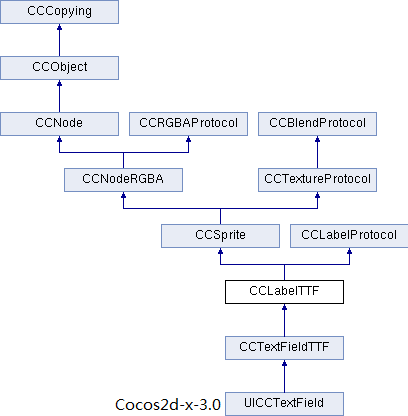
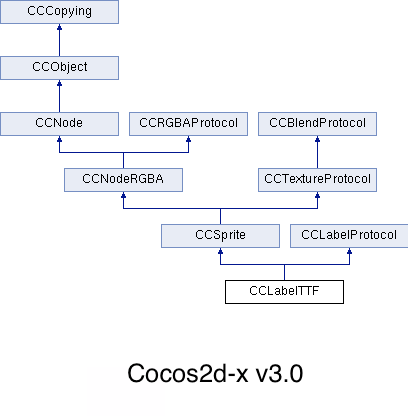
fixed #3298, modify spell, coding style, wrong grammar. update wrong screenshot.

diff --git a/manual/framework/native/gui/label/v3/en.md b/manual/framework/native/gui/label/v3/en.md
@@ -1,37 +1,33 @@
-#Improve Label in Cocos2d-x-3.0
+#Improved Label in Cocos2d-x-3.0
 
-Before the Cocos2d-x-3.0, there are three classes that can add text label on layers and sprites,which are CCLabelTTF, CCLabelBMFont and CCLabelAtlas.
+Before Cocos2d-x 3.0 released, the text label can be added to layer by three classes-CCLabelTTF, CCLabelBMFont and CCLabelAtlas.
 
-Cocos2d-x 3.0 makes some improvements, it keeps compatible with previous version, keep LabelTTF, LabelBMFont and LabelAtlas with minor changes and also provides another class named Label to handling text rendering.
+Though Cocos2d-x 3.0 have improved, it keeps compatible with previous version.
 
-So there are four classes that can add text label: Label, LabelTTF, LabelBMFont and LabelAtlas. The new Label in v3.0 works with freetype and gives you the same visual effect
-on different platforms. It's quicker than previous version with cache strategy.
+With cache strategy's help you can speed up your game.
 
-And also it offers tracing, shadow and many more features to be ready to put aside your LabelTTF and LabelBMFont.
+## Changes:
 
+1. Removed CC prefix of classes, structures and macros. Removed Hungarian naming convention, such as m, p, etc.
+2. Changed certain data type of parameters and return value type in member functions. For example, char was replaced by string, unsigned int was replaced by long, etc.
+3. Changed the name and attribute values of some enum types.
+4. Added const modifier to member function, such as `float getFontSize() const;`, improving the robustness of the program.
 
-Changes:
-
-1. Remove the CC prefix of class, struct and macro. Remove Hungarian naming convention, such as m, p, etc.
-2. Change certain data type of parameters and return type in the member functions. For example, char was replaced by string, unsigned int was replaced by long, etc.
-3. Change the name and attribute values of some enum types;
-4. Add const modifier to member function, such as `float getFontSize() const;`, improving the robustness of the program.
-
-## Similar changes
+## Similar changes of old CCLabel
 
 ### 1.Comparison of the inheritance relationship
-1.In v3.0 version ,all classes have removed the CC prefix and also remove the CCCopying class. Such as:
+In v3.0 version, all classes have removed CC prefix and also remove the CCCopying class. Such as:
 
-CCLabelTTF and LabelTTF 
+#### CCLabelTTF and LabelTTF 
 
 ![](./res/classcocos2d_1_1_c_c_label_t_t_f.png)
 
 ![](./res/classcocos2d_1_1_label_t_t_f.png)
 
 
-### 2.The definition of Horizontal alignment and vertical alignment are changed
+### 2. The definition of Horizontal alignment and vertical alignment are changed
 
-In V2.x version
+#### In V2.x version
 
 ```
 	static CCLabelTTF * create(const char *string, const char *fontName, float fontSize,
@@ -39,7 +35,7 @@ In V2.x version
 	　　                               CCVerticalTextAlignment vAlignment);
 ```
 
-In V3.0 version
+#### In V3.0 version
 ```
 	static LabelTTF * create(const std::string& string, const std::string& fontName, float fontSize,
 	　　                             const Size& dimensions, TextHAlignment hAlignment,
@@ -47,11 +43,13 @@ In V3.0 version
 ```
 
 
-As the example above, you can see a number of changes in the function of the upgrade version. Firstly, there isn't CC prefix any more;
+As the example above, you can see the changes in the function of the upgrade version. 
 
-Secondly, char array has been replaced by a string type(The string is relatively  more advanced and more convenient to use. The char array operation is much more error prone,
-but the efficiency is higher); In addition, the type of last two parameters(horizontal and vertical alignment of the text) are also changed,
-but they have the similar efficiency as the previous version, only the name has changed as follows:
+Firstly, there isn't CC prefix any more.
+
+Secondly, char array has been replaced by a string type(The string is relatively more advanced and more convenient to use. The char array operation is likely make mistakes, but more efficient).
+
+In addition, the type of the last two parameters(horizontal and vertical alignment of the text) are also changed. However, they have the similar efficiency as the previous version, only name has changed as follows:
 
 
 | |*cocos2d-x-2.x*|*cocos2d-x-3.0*|
@@ -62,15 +60,15 @@ but they have the similar efficiency as the previous version, only the name has 
 
 
 
-## Different changes
+## Different changes of old CCLabel
  
-LabelBMFont removed the function:
+LabelBMFont has removed following function:
 
 ``` 
 	CCBMFontConfiguration* getConfiguration() const;
 ```
 
-So you can't call this function to get _configuration(FNT file configuration properties) in v3.0 version any more.
+This function can’t be called to get _configuration(FNT file configuration properties) in v3.0 version any more.
 
 
 
@@ -78,13 +76,13 @@ So you can't call this function to get _configuration(FNT file configuration pro
 ### New Label class
 
 
-Let's look at the hierarchy chart of the Label class :
+Let's look at the hierarchy chart of the Label class:
 
 
 ![](./res/classcocos2d_1_1_label.png)
 
 
-In the above chart, LabelTextFormatProtocol is also a new class, it is  similar as LabelProtocol,  they are all pure virtual classes which provide a interface to store strings.
+In the chart above, LabelTextFormatProtocol is also a new class. It is similar as LabelProtocol,  they are all pure virtual base classes which provide a interface to store strings.
 
 Here is the inheritance graph:
 
@@ -101,13 +99,11 @@ Static Public Member Functions of Label class:
 ```
 
  
-* CreateWithTTF () function can create Label directly from TTF file(TTF is a file extension for a font file developed by Apple. TTF stands for True Type Font.
-TTF files are currently used by both Apple and Microsoft as a raster font format).
+CreateWithTTF() function can create Label directly from TTF file.
 
-The way of creating Label with this function is similar to the way of creating LabelTTF(previous CCLabelTTF). The difference is LabelTTF class create font label from font name,
-but Label class create font label directly through a ttf file.
+The way of creating Label with this function is similar to the way of creating LabelTTF. The difference is LabelTTF class create font label by font name, but Label class create font label directly through a ttf file.
 
-Look at a piece of code as follows, creating a label with LabelTTF and Label: 
+Look at a piece of code as follow, creating a label with LabelTTF and Label: 
 ```
 	auto label1 = LabelTTF::create("Creating label through LabelTTF class by file name", "myFontName", 24);
 	label1->setPosition(Point(origin.x, origin.y + visibleSize.height - label1->getContentSize().height));
@@ -120,7 +116,7 @@ Look at a piece of code as follows, creating a label with LabelTTF and Label:
 	label2->setAnchorPoint(Point(0.0f, 0.0f));
 	this->addChild(label2);
 ```
-Run the program and you will get the following screenshot:
+Run the program and you will get the following result:
 
 ![](./res/ttf.png)
 
@@ -132,7 +128,7 @@ Here is a method to set the alignment of a label:
 	label2->setAlignment(TextHAlignment::LEFT)；	//Set the text level alignment is aligned to the left
 ```
 
-* CreateWithBMFont() can create Label with FNT file,it is similar to LabelBMFont. Look at a piece of code as follows, creating a label through LabelBMFont and Label: 
+CreateWithBMFont() can create Label with FNT file, it is similar to LabelBMFont. Look at a piece of code as follow, creating a label through LabelBMFont and Label: 
 
 ```
 	auto label3 = LabelBMFont::create("Create label through LabelBMFont class by .fnt file", "fonts/helvetica-32.fnt");
@@ -146,16 +142,17 @@ Here is a method to set the alignment of a label:
 	addChild(label4 );
 ```
 
-Run the program and you give get the following screenshot:
+Run the program and you give get the following result:
 
 ![](./res/bmfont1.png)
 
 To use the LabelBMFont class, you need to add the font files into your project, including a PNG file and a FNT file. The Label class has the same requirement.
-FNT file contains the name of the corresponding image (Image contains all  characters that you want to draw), the corresponding unicode  of characters,
-the coordinates, width and height of characters in the image.
 
-You can change some attributes of your label4 by simply calling the member function like the following:
+FNT file contains the name of the corresponding image, the corresponding unicode  of characters, the coordinates, width and height of characters in the image.
 
+You can change some attributes of your label4 by calling the member function just like following codes:
+
+```
 	auto size = label4->getLabelContentSize();
 	CCLOG("Label content size: %.2fx%.2f", size.width, size.height);
 	auto lineWidth = label4->getMaxLineWidth();
@@ -169,7 +166,7 @@ You can change some attributes of your label4 by simply calling the member funct
 	auto jump = JumpBy::create(0.5f, Point::ZERO, 60, 1);
 	auto jump_4ever = RepeatForever::create(jump);
 	CChar->runAction(jump_4ever);
-
+```
 
 Run the program to see the difference:
 
@@ -177,5 +174,6 @@ Run the program to see the difference:
 ![](./res/bmfont2.png)
 
 ![](./res/bmfont3.png)
+
 
 
